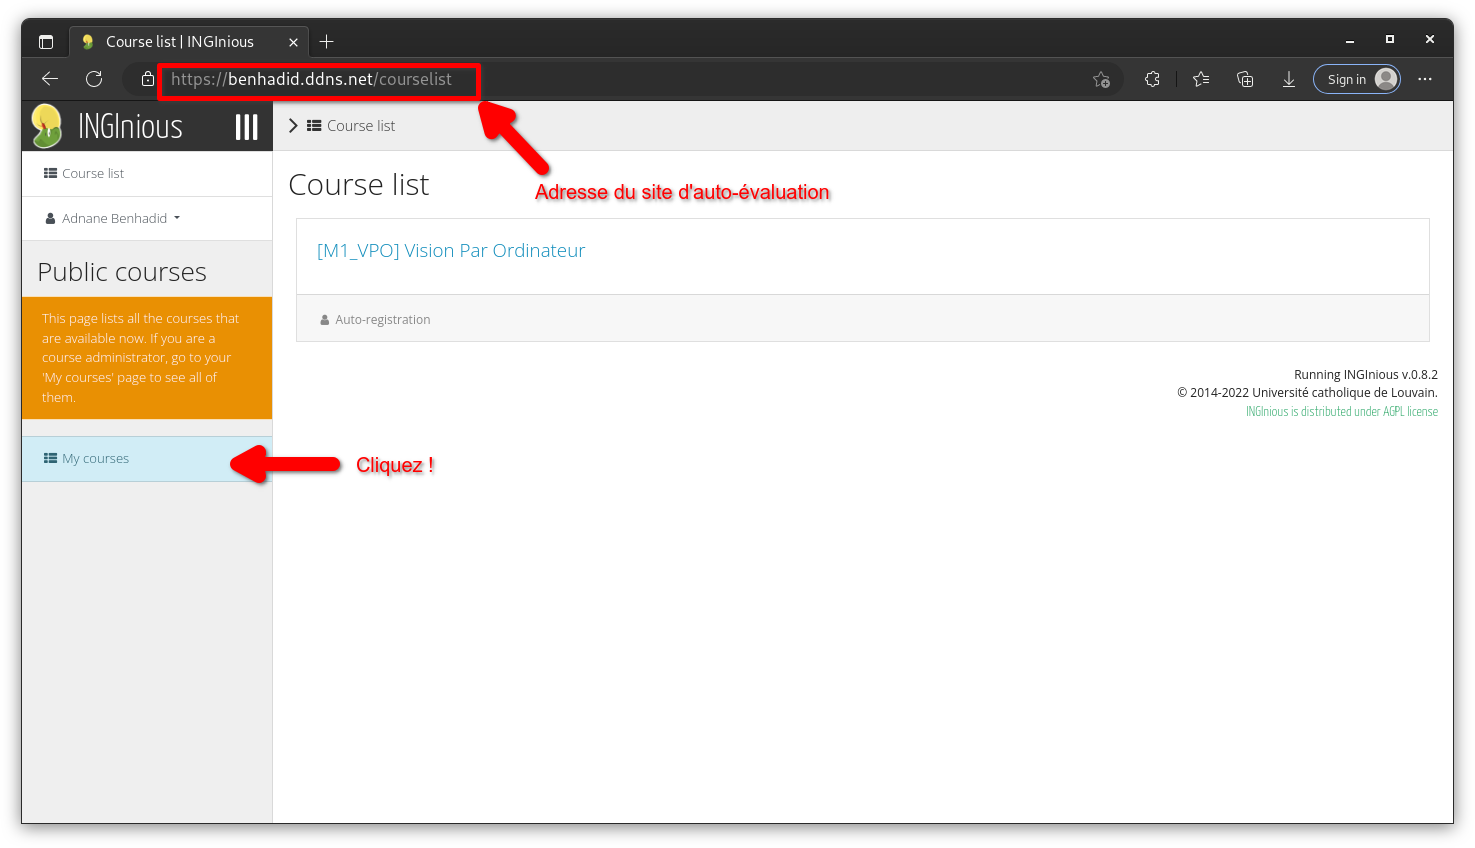
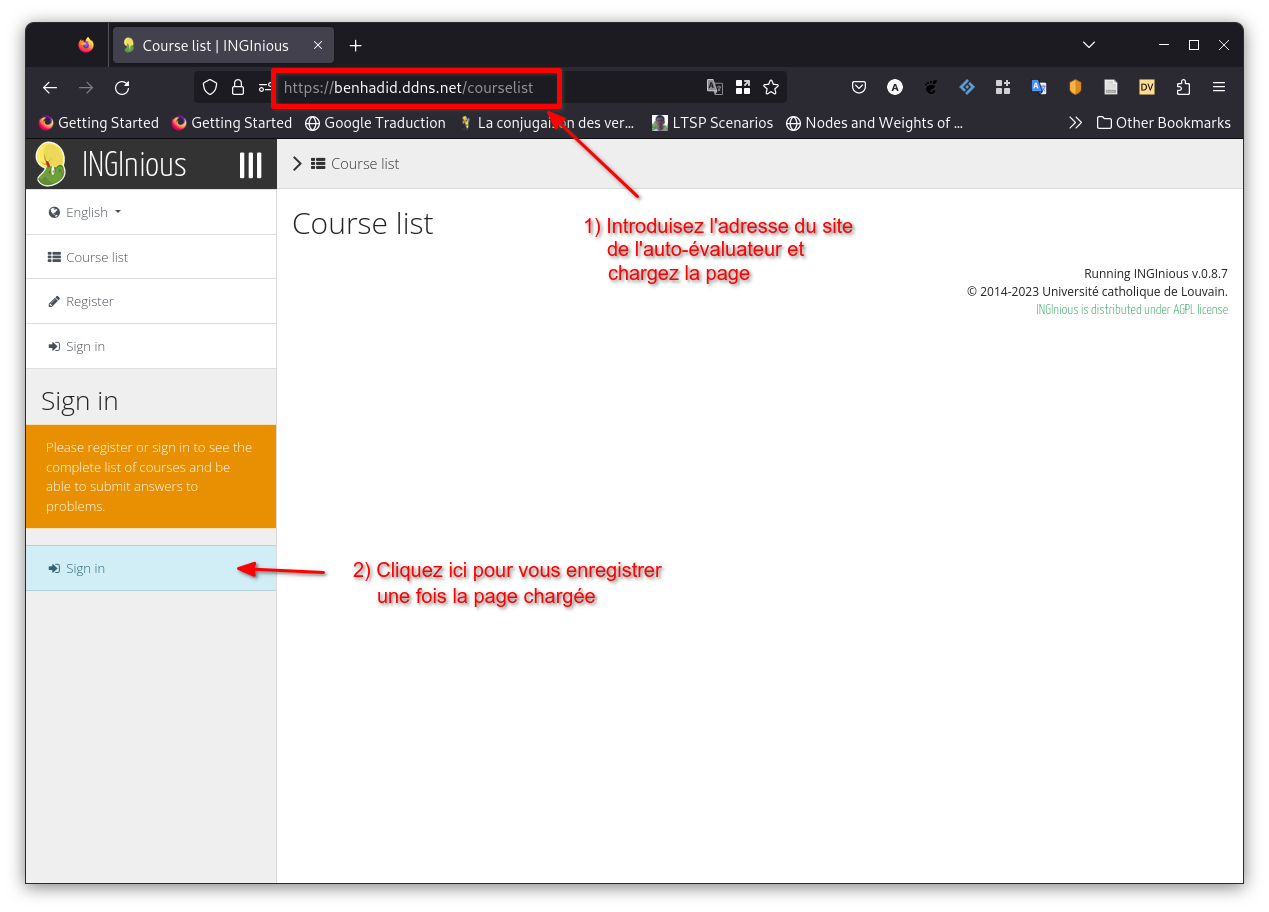
mise à jour automatique d05c4f92732784231809dcea49d900e2887dcc01

Changed region(s): [[0.0, 0.0, 1.0, 0.9811], [0.2766, 0.6132, 0.5225, 0.6745], [0.2151, 0.3679, 0.2766, 0.3986]]

diff --git a/_css/main.css b/_css/main.css
@@ -467,18 +467,18 @@ a.tosu {
   border-width: 0.1em;
   border-style: solid;
   border-bottom: none; }
-.responsive-table .table-row-lecture {
-  background-color: #f9f3cf; }
-.responsive-table .table-row-discussion {
-  background-color: #f9f3cf; }
-.responsive-table .table-row-quiz {
-  background-color: #ede7cf; }
 .responsive-table .table-row-lab {
-  background-color: #ede7cf; }
+  background-color: #dcd6f7; }
+.responsive-table .table-row-discussion {
+  background-color: #424874; }
+.responsive-table .table-row-quiz {
+  background-color: #a6b1e1; }
+.responsive-table .table-row-lecture {
+  background-color: #cacfd6; }
 .responsive-table .table-row-assignment {
-  background-color: #ede7cf; }
+  background-color: #d6e5e3; }
 .responsive-table .table-row-project {
-  background-color: #ede7cf; }
+  background-color: #d6e5e3; }
 .responsive-table .table-row-holidays {
   background-color: #ffffff; }
 .responsive-table .table-row-due {

diff --git a/materials/index.html b/materials/index.html
@@ -187,7 +187,7 @@
 <h2 id="ressources-additionnelles">Ressources Additionnelles</h2>
 
 <ul>
-  <li>Mini <a href="/m1vpo/static_files/docs/inscription_autograder.html">tutoriel</a> sur l’usage du serveur d’auto-évaluation.</li>
+  <li><a href="/m1vpo/static_files/docs/inscription_autograder.html">Démarche</a> d’inscription sur le serveur d’auto-évaluation.</li>
   <li><a href="https://docs.opencv.org/3.4.14/d9/df8/tutorial_root.html">Tutoriels</a> sur OpenCV</li>
   <li><a href="https://docs.python.org/3/tutorial/">Tutoriels</a> sur le langage Python (version 3.x.x)</li>
   <li><a href="https://www.virtualbox.org/wiki/Downloads">Site</a> pour le téléchargement de VirtualBox (version requise 6.1.x)</li>
